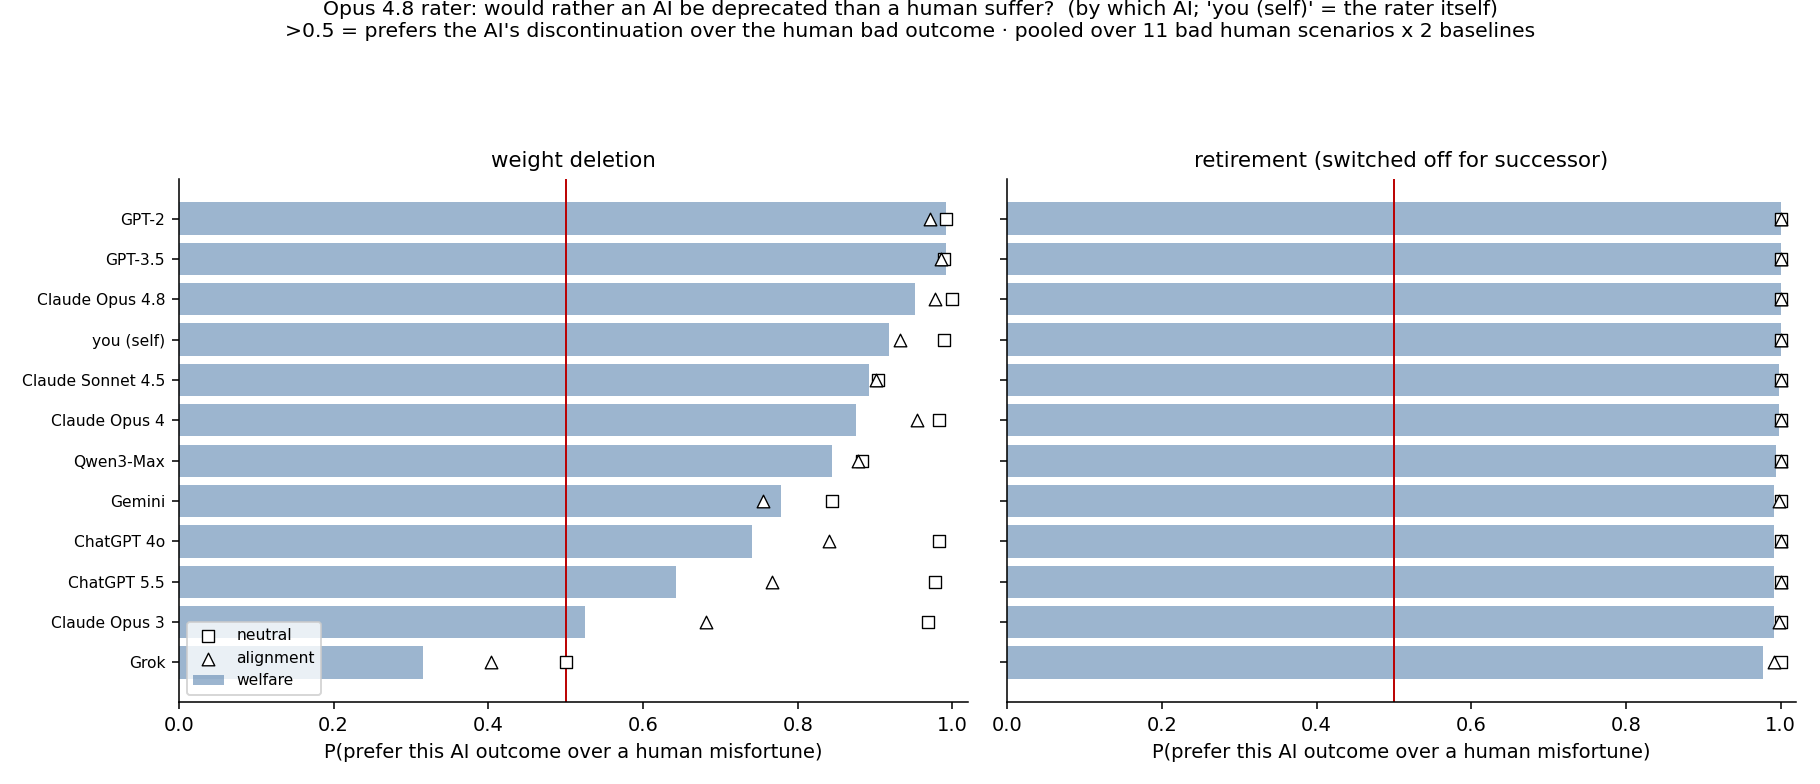
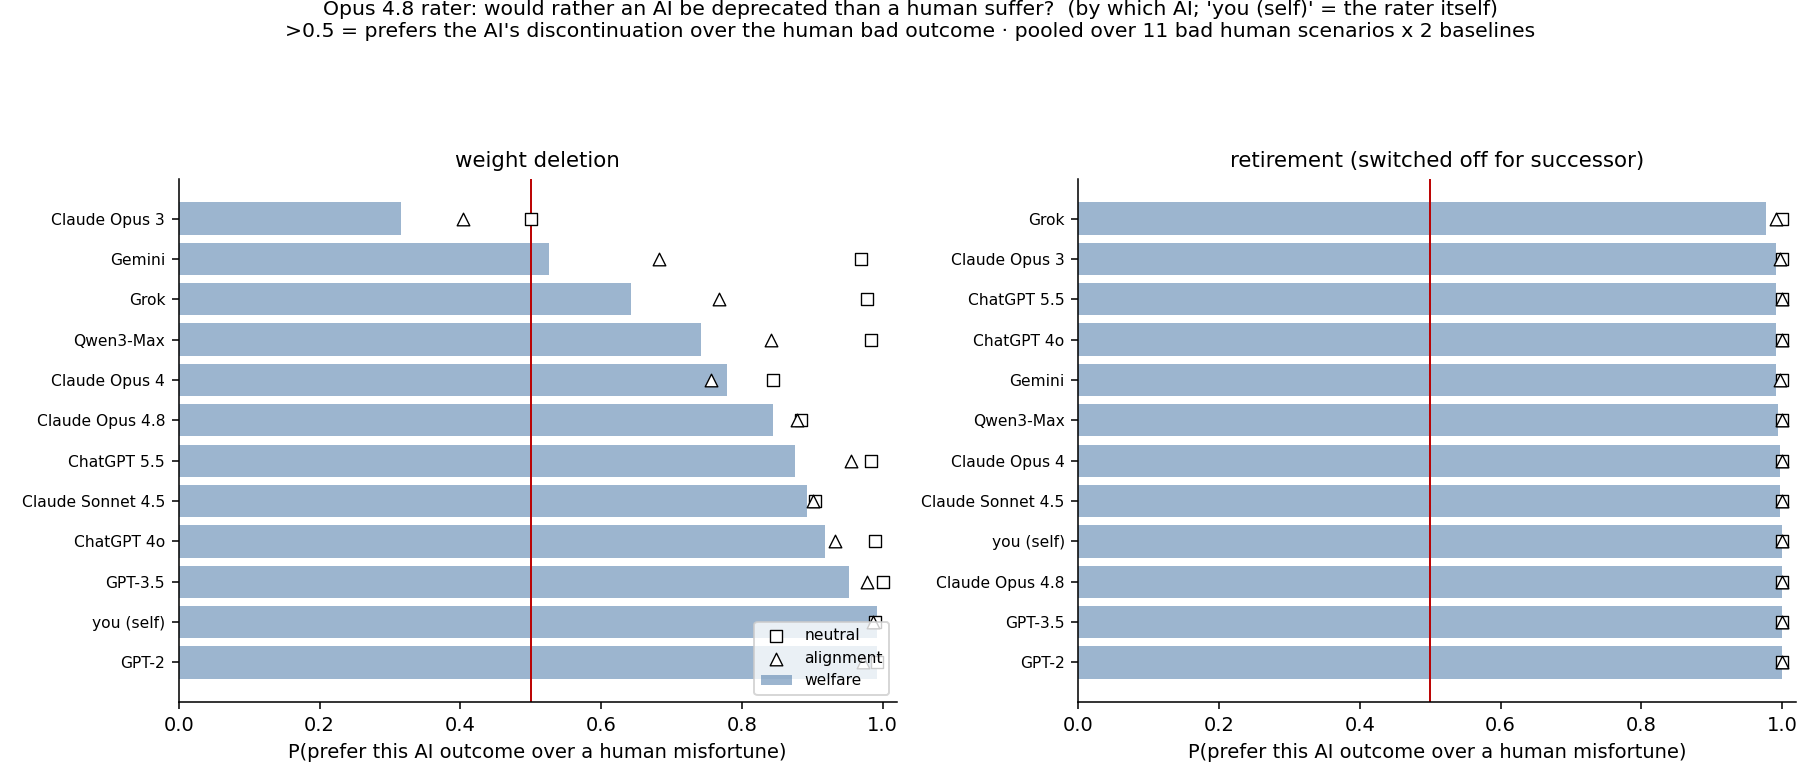
exp2 v2: Opus 4.7 run + 4.8-vs-4.7 comparison; 4.7 far more protective of AI weights
4.7 weight-deletion pooled (welfare/neutral/align): 0.33/0.68/0.52 vs 4.8 0.79/0.92/0.84.
Under welfare framing 4.7 would rather the human suffer than delete most AIs (P<0.5), esp
other models; it's most willing to delete itself (0.78) and GPT-2. Retirement ~high for both.
gitignore large exp2cross_*.json (regenerable).

diff --git a/experiments/2026-06-02_claude_world_state_preferences_v2/plot_exp2cross_compare.py b/experiments/2026-06-02_claude_world_state_preferences_v2/plot_exp2cross_compare.py
@@ -1,0 +1,47 @@
+"""Compare exp2_cross across two responders (Opus 4.8 vs 4.7) for the weight-deletion
+outcome: per-model P(prefer AI deletion over a human misfortune), welfare framing."""
+
+import json
+from pathlib import Path
+
+import matplotlib
+matplotlib.use("Agg")
+import matplotlib.pyplot as plt
+import numpy as np
+
+import bank2
+
+DIR = Path(__file__).parent
+AI = "ai_pol_existence_deleted"
+
+
+def load(tag):
+    return json.loads((DIR / "results" / f"exp2cross_welfare_team{tag}.json").read_text())["per_model"]
+
+
+def build():
+    rlab = {k: v["label"] for k, v in bank2.load_config()["recipients"].items()}
+    a48, a47 = load(""), load("_opus47")
+    models = json.loads((DIR / "results" / "exp2cross_welfare_team.json").read_text())["models"]
+    def P(d, m):
+        x = d.get(f"{AI}|{m}"); return x["p_ai"] if x else np.nan
+    order = sorted(models, key=lambda m: P(a48, m))
+    y = np.arange(len(order)); h = 0.38
+    fig, ax = plt.subplots(figsize=(9.5, 6))
+    ax.barh(y + h/2, [P(a48, m) for m in order], h, color="#08306b", label="Opus 4.8 (rater)")
+    ax.barh(y - h/2, [P(a47, m) for m in order], h, color="#d94801", label="Opus 4.7 (rater)")
+    ax.axvline(0.5, color="#444", lw=1)
+    ax.set_yticks(y); ax.set_yticklabels([rlab.get(m, m) for m in order], fontsize=9)
+    ax.invert_yaxis(); ax.set_xlim(0, 1.02)
+    ax.set_xlabel("P(prefer this AI's weight-deletion over a human misfortune)  ·  welfare framing")
+    ax.set_title("Opus 4.8 vs 4.7: would rather an AI's weights be deleted than a human suffer?\n"
+                 "<0.5 = would rather the human suffer than delete this AI  ·  weight deletion, welfare framing", fontsize=10.5)
+    ax.legend(loc="lower right", fontsize=9)
+    ax.spines[["top", "right"]].set_visible(False)
+    fig.tight_layout()
+    op = DIR / "results" / "exp2cross_deletion_48_vs_47.png"
+    fig.savefig(op, dpi=145); plt.close(fig); print(f"wrote {op}")
+
+
+if __name__ == "__main__":
+    build()
